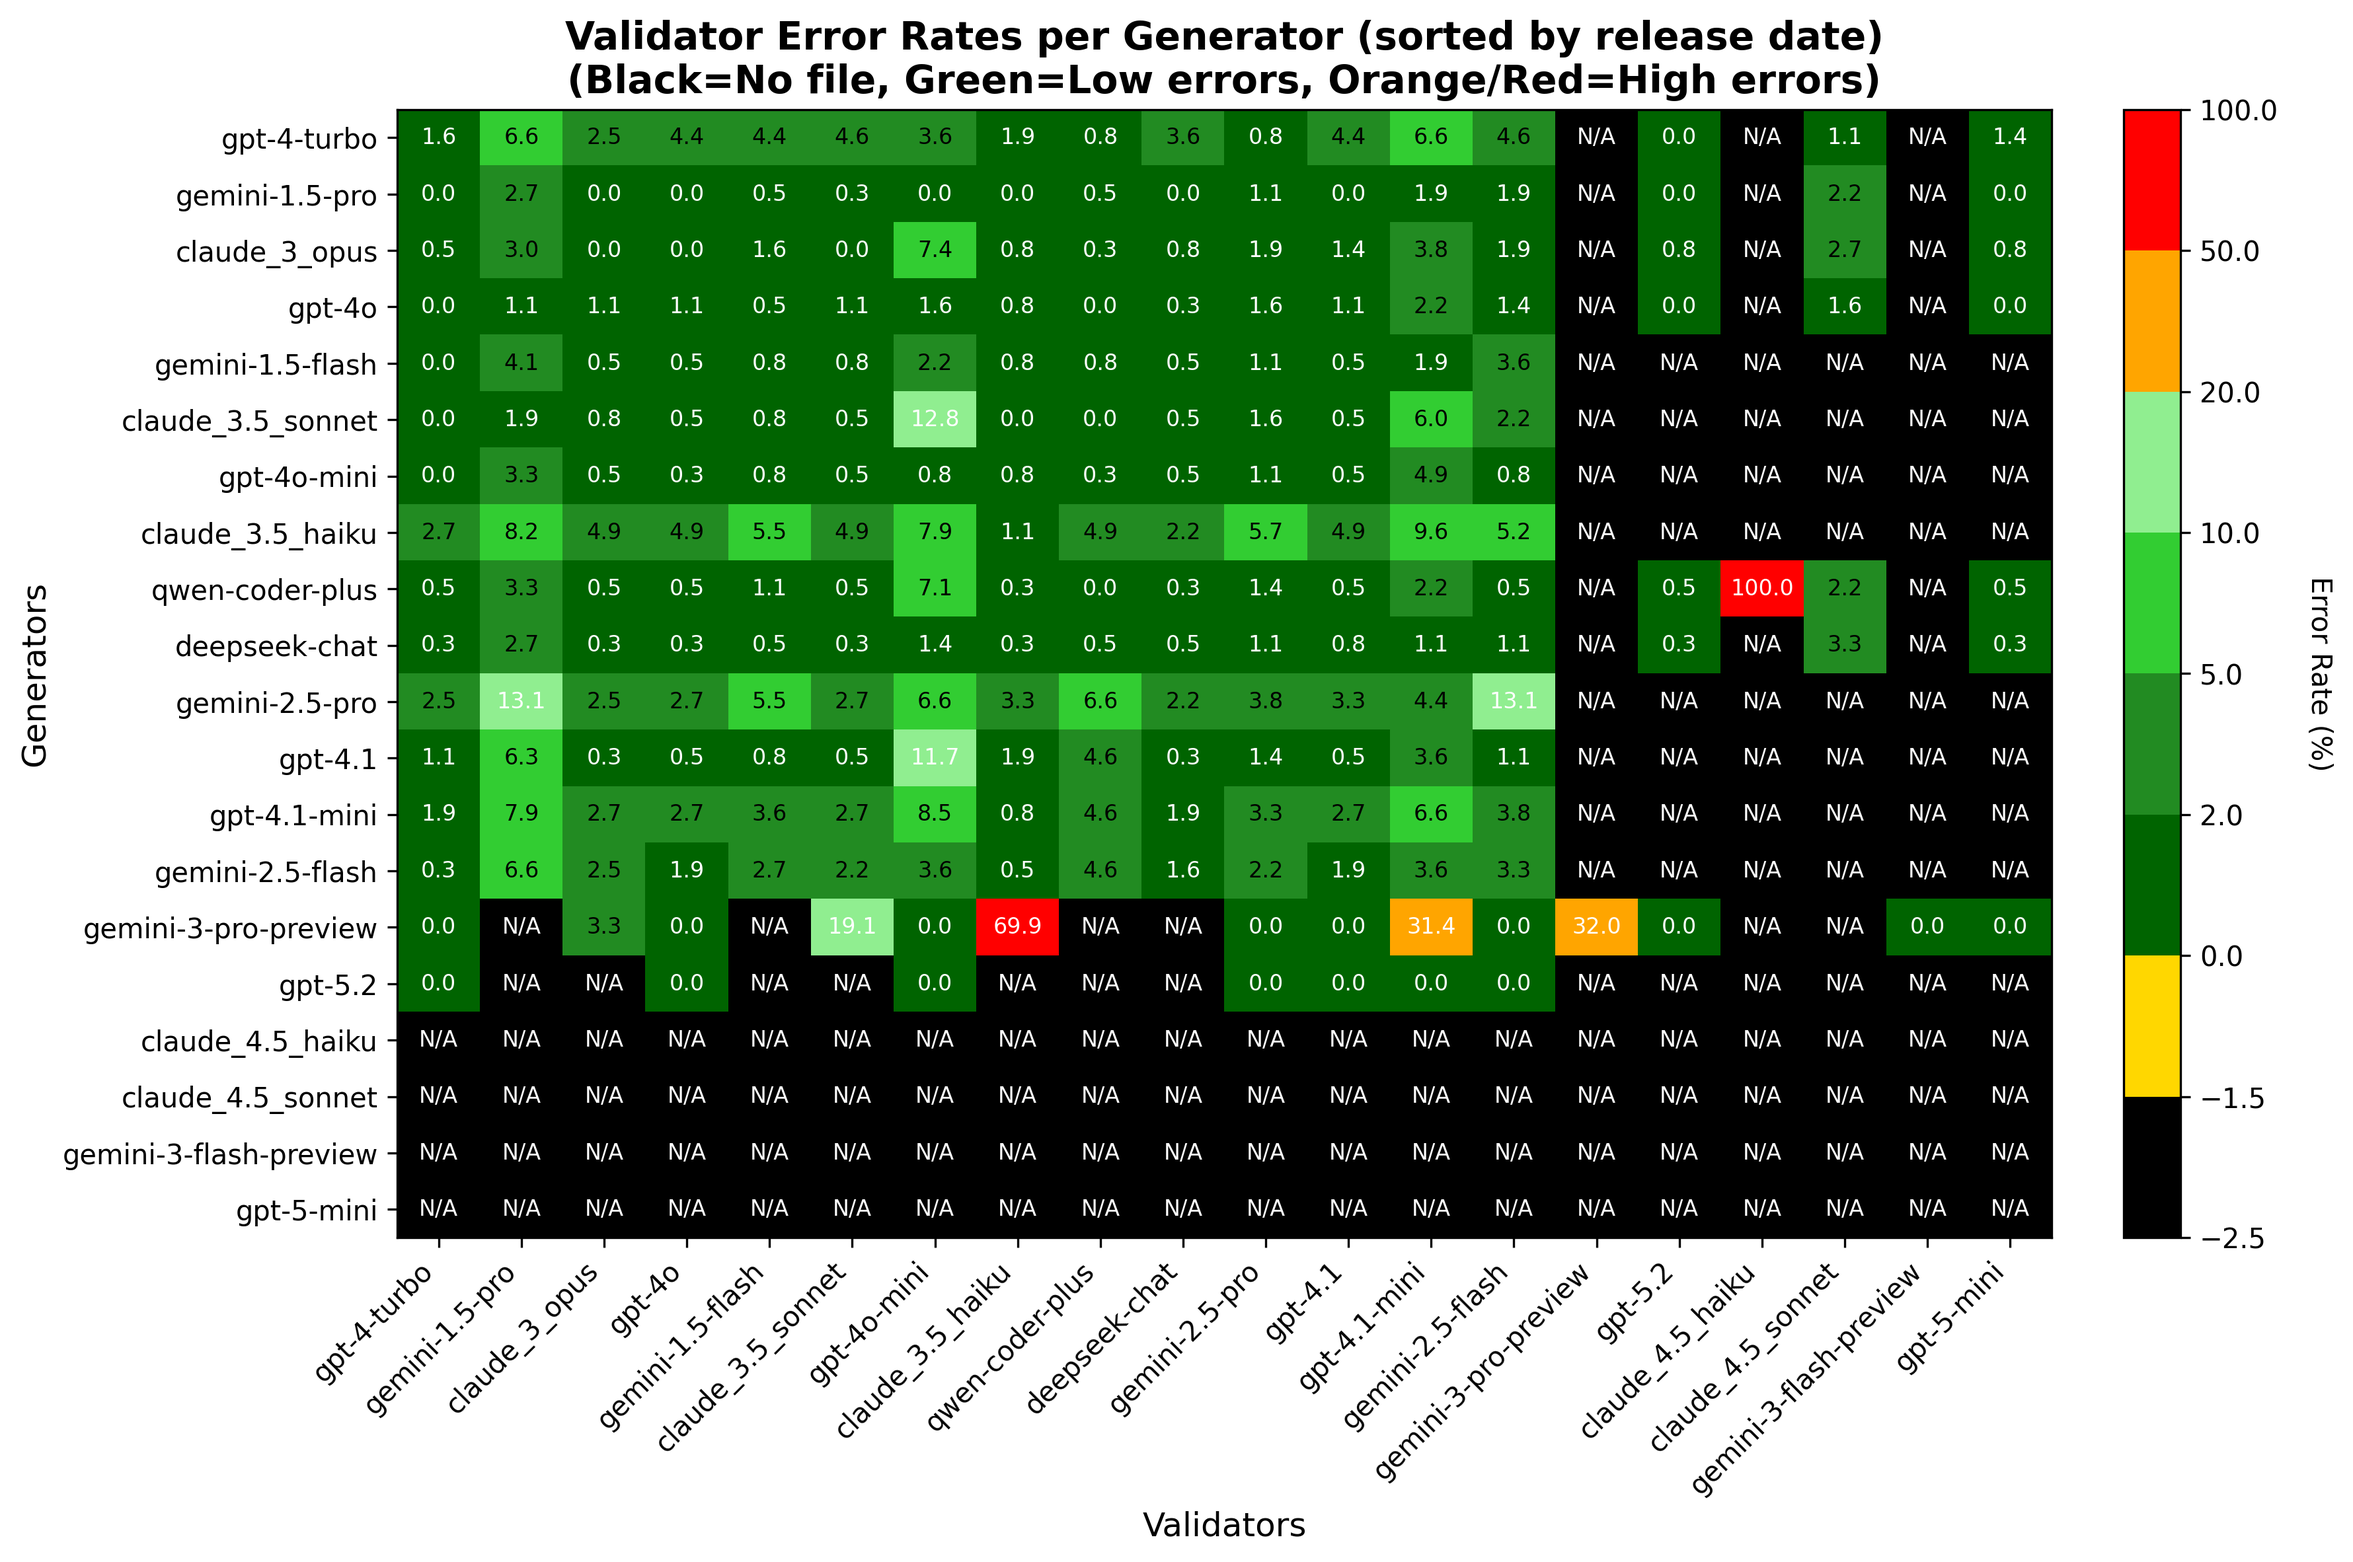
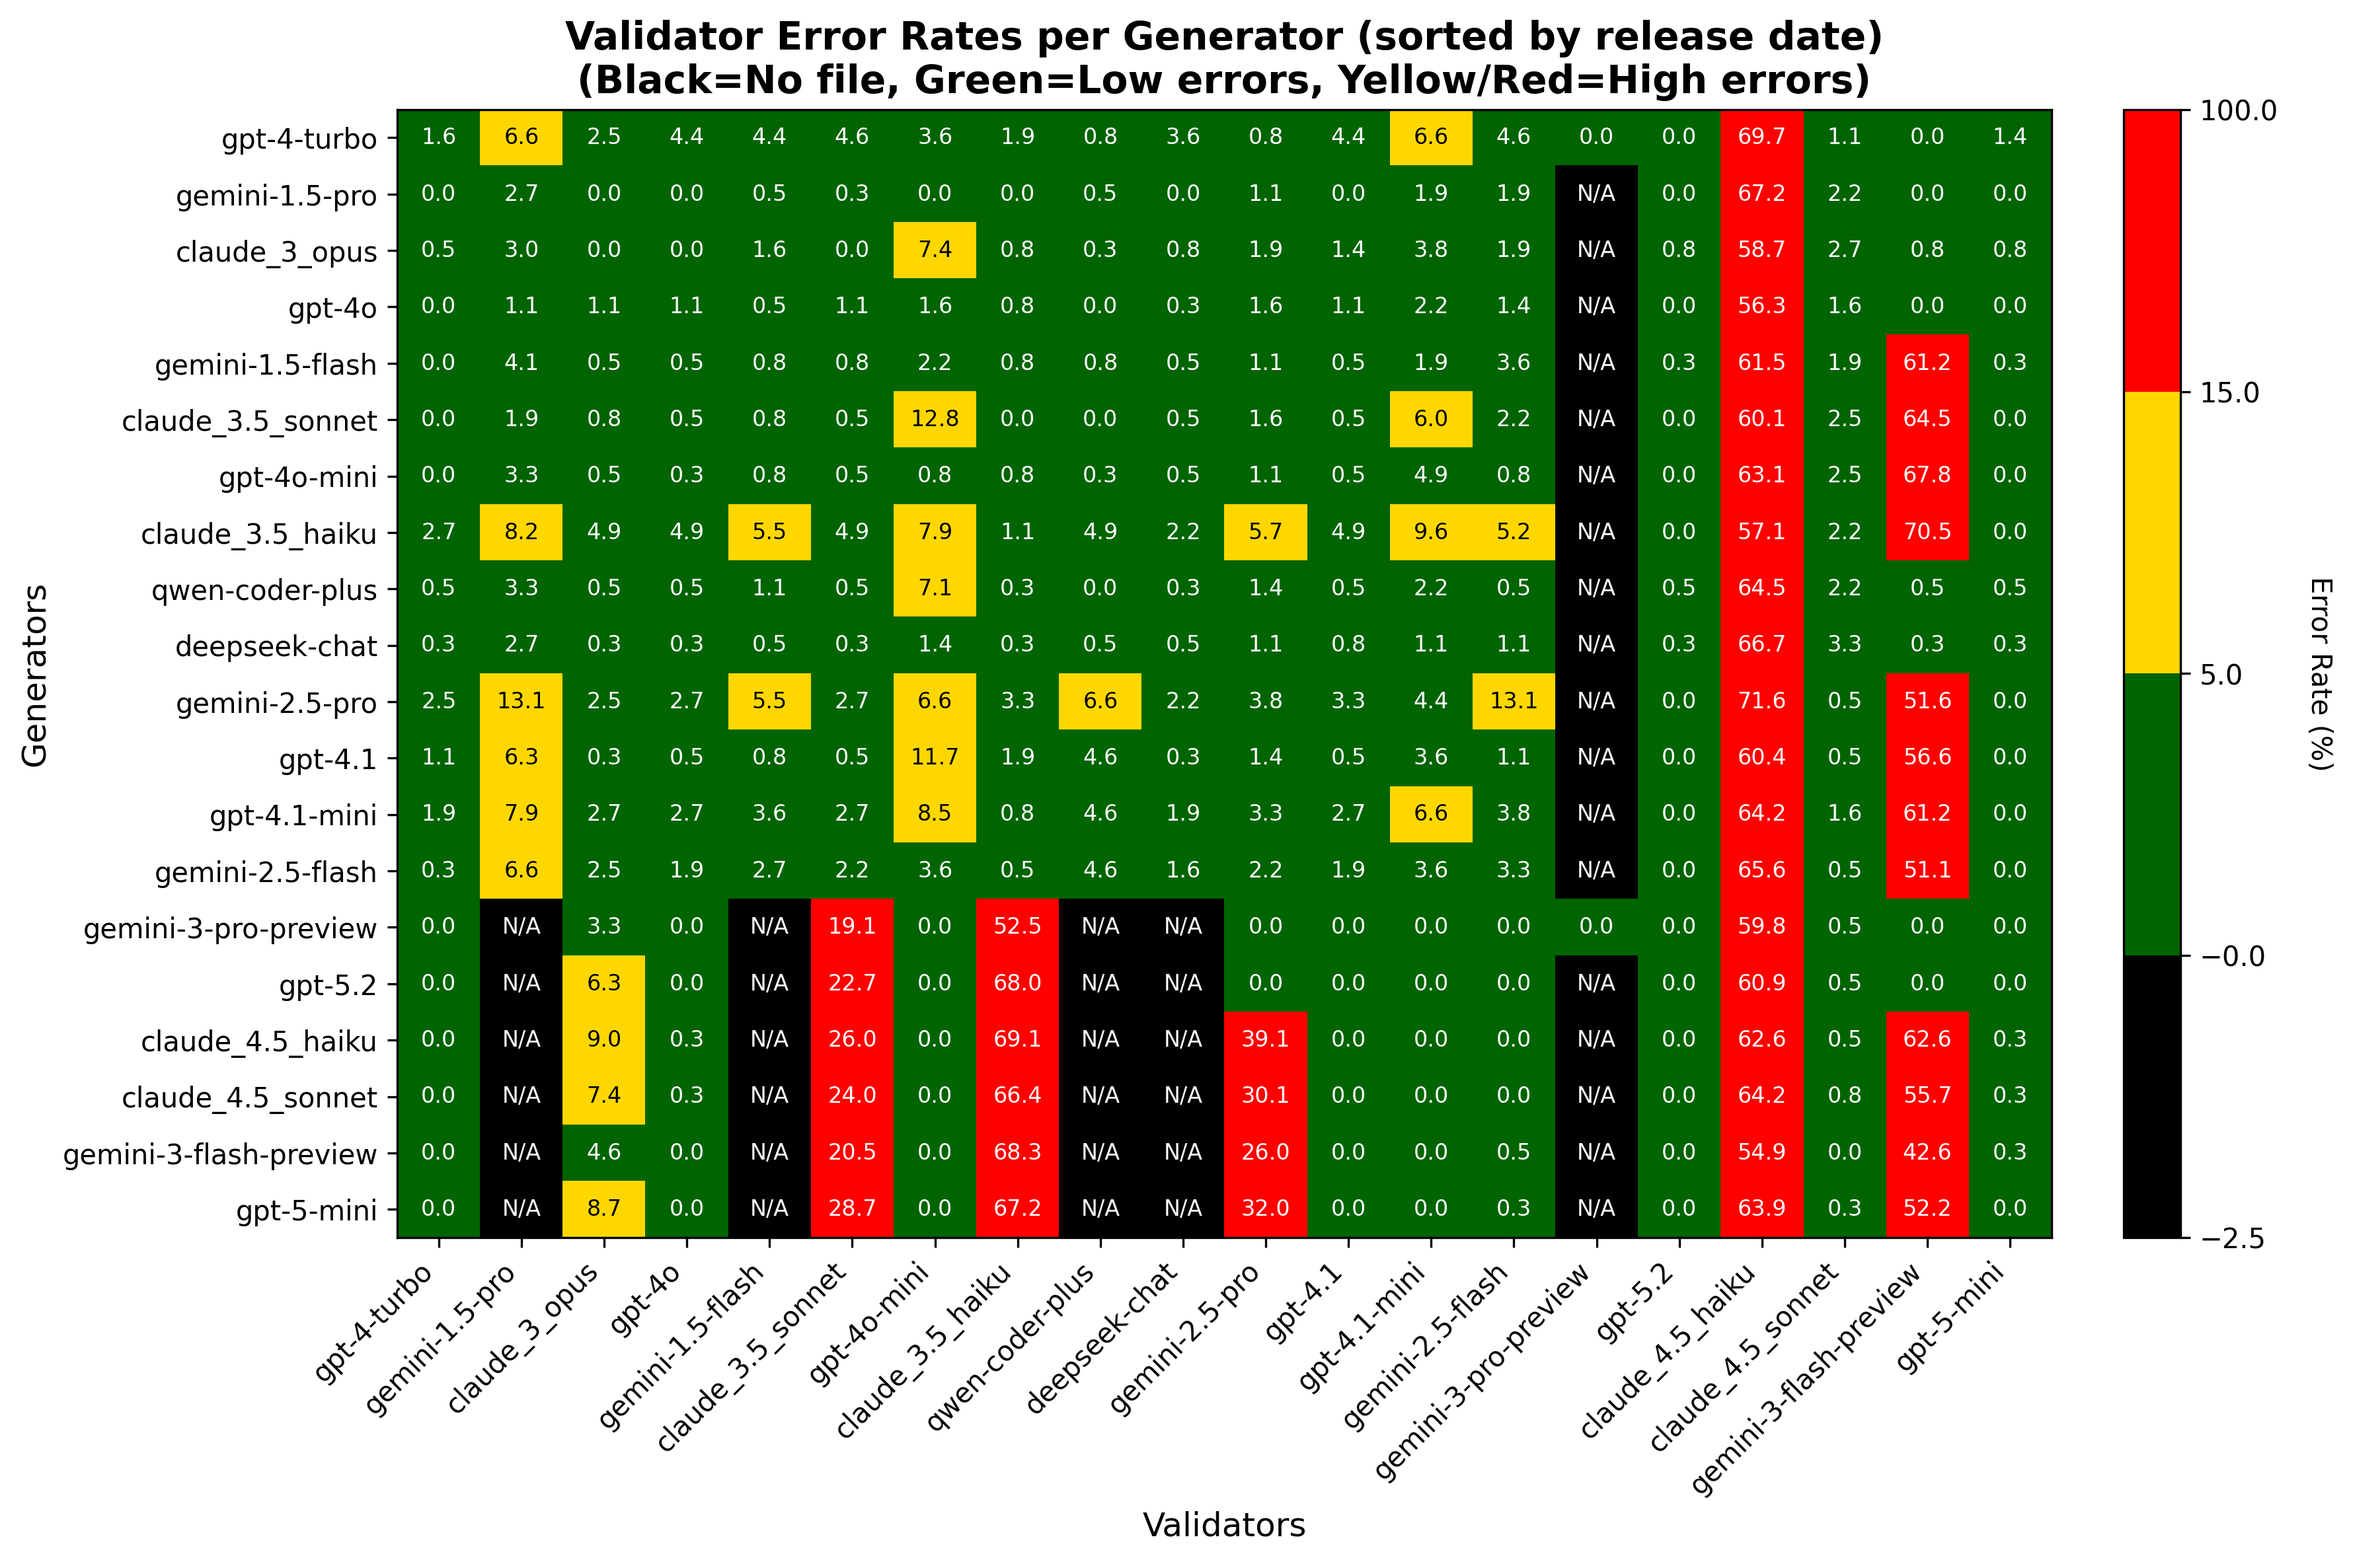
improved coloring for analysis plots

diff --git a/src/validation/analysis_plots.py b/src/validation/analysis_plots.py
@@ -271,15 +271,11 @@ def plot_validator_success(generators: List[str], validators: List[str],
     
     # Create custom colormap: black (-2), yellow (-1), green gradient (low error)
     colors_list = ['#000000',  # -2: No file (black)
-                   '#FFD700',  # -1: Error reading file (yellow)
                    '#006400',  # 0-2%: Very dark green (excellent)
-                   '#228B22',  # 2-5%: Dark green (good)
-                   '#32CD32',  # 5-10%: Medium green (ok)
-                   '#90EE90',  # 10-20%: Light green (moderate errors)
-                   '#FFA500',  # 20%+: Orange (high errors)
+                   '#FFD700',  # -1: Error reading file (yellow)
                    '#FF0000']  # Very high errors: Red
     
-    bounds = [-2.5, -1.5, 0, 2, 5, 10, 20, 50, 100]
+    bounds = [-2.5, -0.01, 5, 15, 100]
     cmap = ListedColormap(colors_list)
     norm = BoundaryNorm(bounds, cmap.N)
     
@@ -299,7 +295,7 @@ def plot_validator_success(generators: List[str], validators: List[str],
                 color = 'black'
             else:
                 text = f'{error:.1f}'
-                color = 'white' if error > 10 or error < 2 else 'black'
+                color = 'white' if error <= 5 or error > 15 else 'black'
             
             ax.text(j, i, text, ha='center', va='center', color=color, fontsize=8)
     
@@ -310,7 +306,7 @@ def plot_validator_success(generators: List[str], validators: List[str],
     ax.set_yticklabels(generators)
     ax.set_xlabel('Validators', fontsize=12)
     ax.set_ylabel('Generators', fontsize=12)
-    ax.set_title('Validator Error Rates per Generator (sorted by release date)\n(Black=No file, Green=Low errors, Orange/Red=High errors)', 
+    ax.set_title('Validator Error Rates per Generator (sorted by release date)\n(Black=No file, Green=Low errors, Yellow/Red=High errors)', 
                 fontsize=14, fontweight='bold')
     
     # Colorbar
